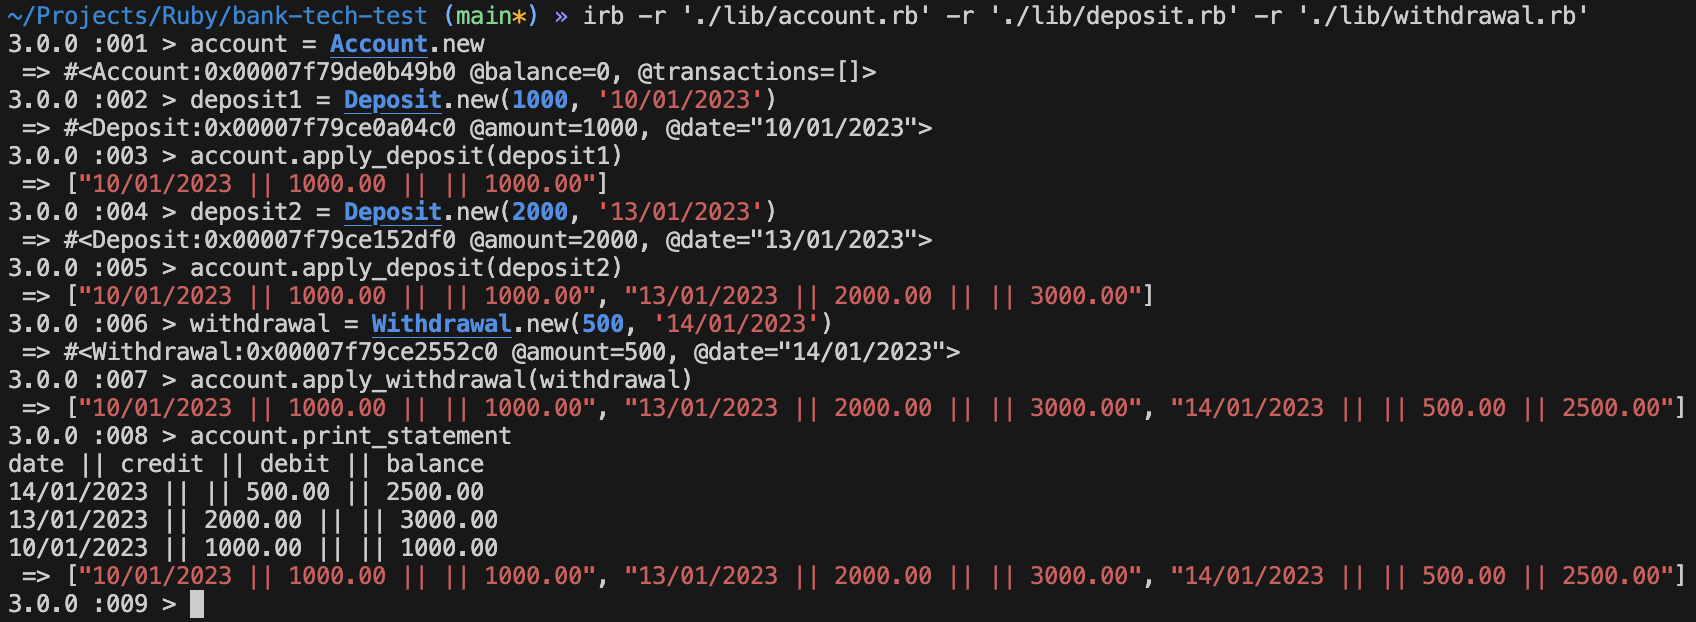
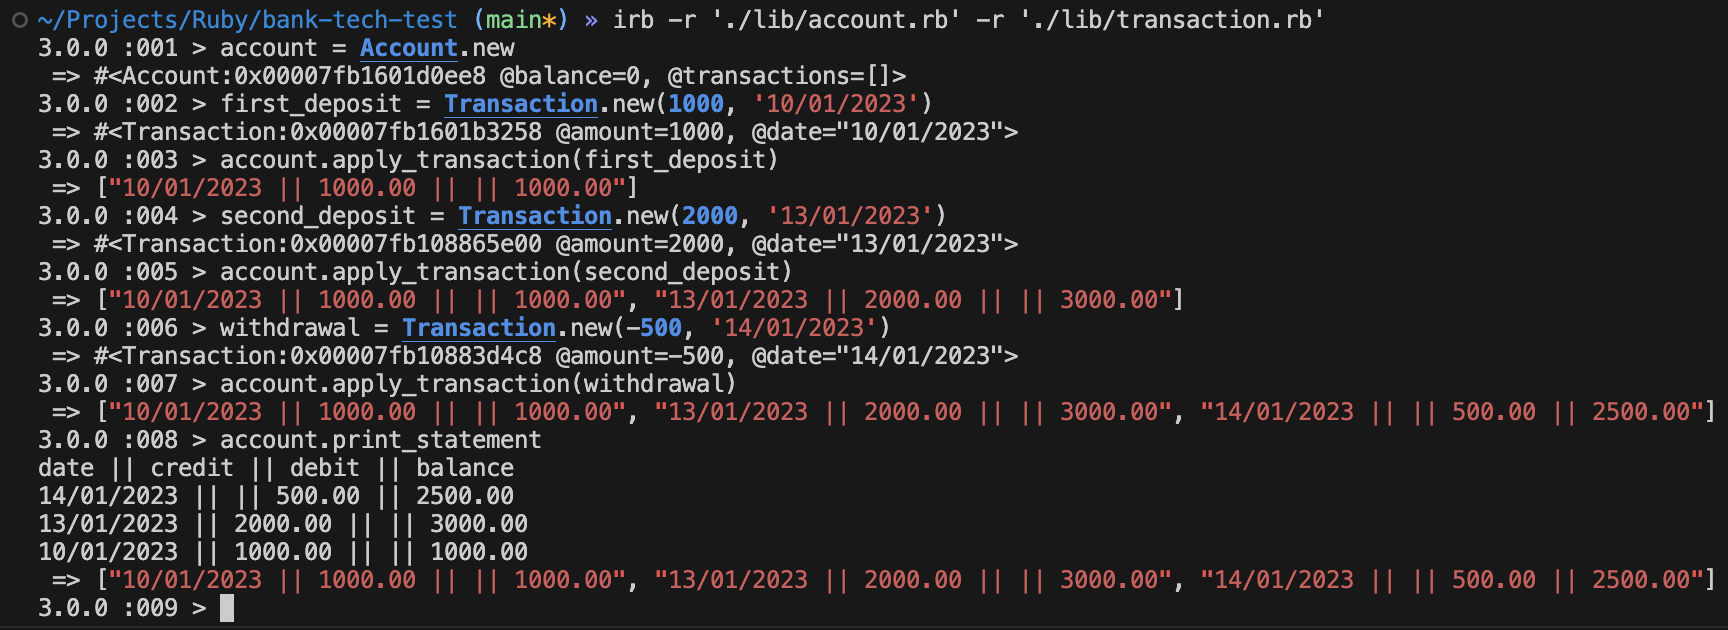
updated readme and screenshot

Changed region(s): [[0.0, 0.0, 1.0, 1.0]]

diff --git a/lib/account.rb b/lib/account.rb
@@ -1,6 +1,6 @@
 # frozen_string_literal: true
 
-require 'transaction'
+require './lib/transaction'
 
 class Account
   def initialize

diff --git a/README.md b/README.md
@@ -8,37 +8,23 @@ Welcome to my Bank tech test. To install my code and ensure you can run rspec, r
 bundle install
 ```
 
-You can then run `rspec` and notice that all tests are passing, and that my code coverage is 100%. You can also run `rubocop` to see that I have no rubocop offenses. Please note that in the _.rubocop.yml_ file, I have added some exclusions I deemed necessary. This includes not checking the spec files for code length, and avoid running rubocop on the spec_helper and Gemfile documents. I did have an issue with enforcing `apply_deposit` to use a deposit object and similarly for `apply_withdrawal`, as I couldn't successfully mock the deposit/withdrawal object to pass the `is_a?` fail line in my account unit test.
+You can then run `rspec` and notice that all tests are passing, and that my code coverage is 100%. You can also run `rubocop` to see that I have no rubocop offenses. Please note that in the _.rubocop.yml_ file, I have added some exclusions I deemed necessary. This includes not checking the spec files for code length, and avoid running rubocop on the spec_helper and Gemfile documents.
 
 ## Process
 
 Below is the diagram I fleshed out before diving into the code:
 ![Bank tech test diagram](Diagram.png)
 
-My approach was to have an object for each transaction, separated into a deposit or a withdrawal, which both work the same. Once they are applied to the account object, that is when they differ slightly, with deposits adding to the balance and creating a credit, and withdrawals subtracting from the balance and creating a debit. I could have had simply one transaction class that could then have been applied to the correct method in account, but for clarity, I wanted to ensure the user knew what kind of transaction object they created. Instead of having
-```
-account = Account.new
-transaction = Transaction.new(1000, '01/01/2023')
-account.apply_deposit(transaction)
-```
-
-I believe the following causes less confusion from the get-go:
-```
-account = Account.new
-deposit = Deposit.new(1000, '01/01/2023')
-account.apply_deposit(deposit)
-```
-
-I have the `apply_deposit` and `apply_withdrawal` to add to/subtract from the `@balance` depending on the method, and added a string to the `@transactions` array with the right credit/debit formatting to make it easier later in the `print_statement` method. As I was going through the self-assessment, I realized I could refactor some bits and remove redundant code, such as adding to a `@deposists` and a `@withdrawals` array that I didn't need to use in the end. One may notice the funny `format('%.2f'` syntax - this is to ensure amounts are shown to 2 decimal places. In the deposit and withdrawal classes, I'm forcing the amount to be an integer for simplicity, and then converting the format esthetically once added to an account. Perhaps I could take more time researching a good data type for money that's not an integer so I don't need to reformat it later in account to 2 decimal places. Similar thing for picking a good variable for date to not be a string as my code doesn't currently enforce a format when entering it.
+My approach was to have an object for each transaction, which can then be applied to an account. Previously I had one class for deposits and one for withdrawals, but as they were exactly the same, I was given feedback to consolidate them into one. Depending on if the amount is positive (a deposit) or negative (a withdrawal), I've added a string to the `@transactions` array with the right credit/debit formatting to make it easier later in the `print_statement` method. As I was going through the self-assessment, I realized I could refactor some bits and remove redundant code, such as adding to a `@deposits` and a `@withdrawals` array that I didn't need to use in the end. One may notice the funny `format('%.2f'` syntax - this is to ensure amounts are shown to 2 decimal places. In the transaction class, I'm forcing the amount to be an integer for simplicity, and then converting the format esthetically once added to an account. Perhaps I could take more time researching a good data type for money that's not an integer so I don't need to reformat it later in account to 2 decimal places. Similar thing for picking a good variable for date to not be a string as my code doesn't currently enforce a format when entering it.
 
 ## Running the code on IRB
 In order to run the code and play around with it, run the following on your terminal:
 
 ```
-irb -r './lib/account.rb' -r './lib/deposit.rb' -r './lib/withdrawal.rb'
+irb -r './lib/account.rb' -r './lib/transaction.rb'
 ```
 
-From there, you can create a new `account` obejct. When creating a new `deposit` or `withdrawal` object, make sure to include an integer as the amount for the first argument, and the date as a string in the second argument, in the format that you'd like. You must then use the `apply_deposit` and `apply_withdrawal` on the `account` to apply the `deposit` or `withdrawal` object, respectively. Here is an example:
+From there, you can create a new `account` obejct. When creating a new `transaction` object, make sure to include an integer as the amount for the first argument, with a positive number for a deposit, or a negative number for a withdrawal. The date should be entered as a string in the second argument, in the format that you'd like. You must then use the `apply_transaction` on the `account` to apply it.
 
 ![IRB example](irb.png)
 
